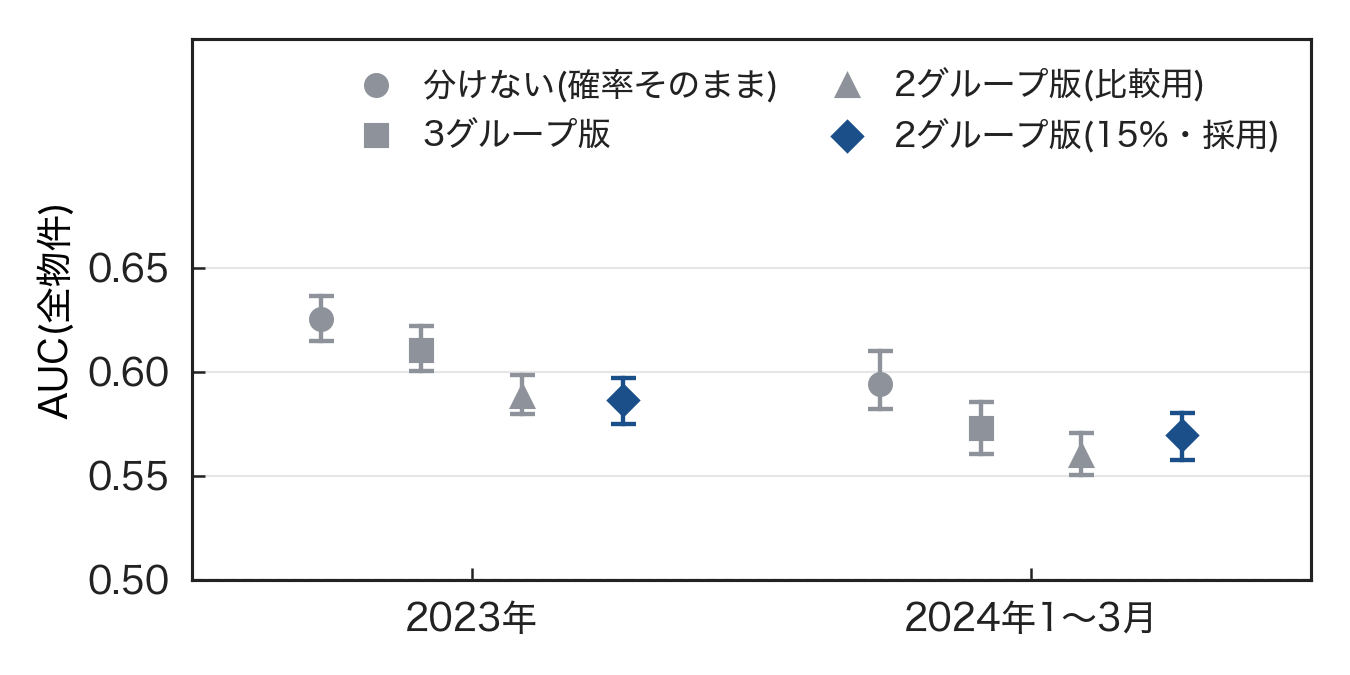
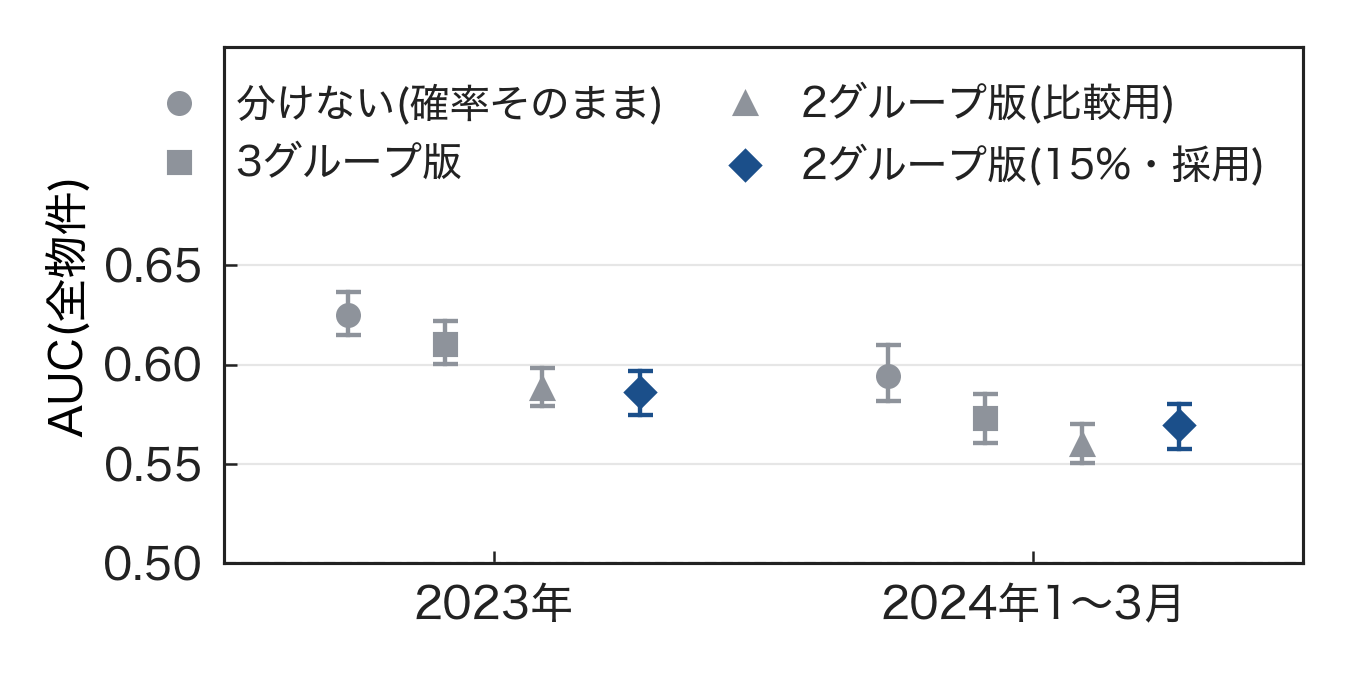
Talk figures: larger text for 31b/31c1/31c2/31f/31g (BIG_PX), shorten 31b(b) title

Changed region(s): [[0.0311, 0.0311, 0.9956, 0.9333], [0.5289, 0.2178, 0.56, 0.28]]

diff --git a/Yamamoto/room_level/analysis/31_slide_figures.py b/Yamamoto/room_level/analysis/31_slide_figures.py
@@ -79,12 +79,13 @@ def note(fig_name: str, item: str, value: float) -> None:
 # スライドに貼る幅(px、1920幅のスライド)。図の幅(150dpiでのpx)から引く。どの図も、スライド上で同じ大きさの文字(約30px)になるようにする
 DISPLAY_W = {1664: 1664, 1100: 1590, 1130: 1491, 900: 1118, 1000: 1292, 860: 1094, 700: 765}
 TARGET_PX = 30
+BIG_PX = 36  # 文字を大きくしたい図(31b・31c1・31c2・31g・31f)だけ使う
 
 
-def new(w: int, h: int, ncols: int = 1, ratios=None):
+def new(w: int, h: int, ncols: int = 1, ratios=None, target: int | None = None):
     global FS
     if TALK:
-        pt = TARGET_PX / (DISPLAY_W.get(w, w) / w) * 72 / 150
+        pt = (target or TARGET_PX) / (DISPLAY_W.get(w, w) / w) * 72 / 150
         FS = pt / 12.5
         plt.rcParams.update({"font.size": pt, "axes.labelsize": pt, "axes.titlesize": pt, "xtick.labelsize": pt, "ytick.labelsize": pt, "legend.fontsize": pt * 0.96})
     return plt.subplots(1, ncols, figsize=(w / DPI, h / DPI), gridspec_kw={"width_ratios": ratios} if ratios else None)
@@ -326,7 +327,7 @@ def fig_horizon(c23: pd.DataFrame) -> None:
         note("31b", f"{h}日 上位30%は残りの何倍", R[-1][0])
         note("31b", f"{h}日 上位30%は残りの何倍 95%区間 下", R[-1][1])
         note("31b", f"{h}日 上位30%は残りの何倍 95%区間 上", R[-1][2])
-    fig, ax = new(1100, 420, 2)
+    fig, ax = new(1100, 420, 2, target=BIG_PX)
     for a, vals, ylab, ylim, ref in [(ax[0], A, "AUC(似た物件どうし)", (0.49, 0.60), 0.5), (ax[1], R, "上位30% ÷ 残り(倍)", (1.0, 2.3), None)]:
         for i, (v, lo, hi) in enumerate(vals):
             dot_ci(a, i, v, lo, hi, color=(HI if i == 0 else BASE) if TALK else DARK)
@@ -336,9 +337,9 @@ def fig_horizon(c23: pd.DataFrame) -> None:
         a.set_ylim(*ylim)
         a.set_xticks(range(3))
         a.set_xticklabels(["7日", "14日", "30日"])
-        a.set_ylabel(("AUC" if ylab.startswith("AUC") else "倍率(倍)") if TALK else ylab)
+        a.set_ylabel(("AUC" if ylab.startswith("AUC") else "倍") if TALK else ylab)
     panel(ax[0], "(a) 似た物件どうしのAUC" if TALK else "(a)")
-    panel(ax[1], "(b) 上位30%の掲載終了率は残りの何倍か" if TALK else "(b)")
+    panel(ax[1], "(b) 上位30%÷残り" if TALK else "(b)")
     if TALK:
         ax[0].text(2.45, 0.503, "でたらめ(0.5)", ha="right", va="bottom", fontsize=11 * FS, color="#555555")
     fig.tight_layout()
@@ -384,7 +385,7 @@ def fig_levels(c22: pd.DataFrame, c23: pd.DataFrame, c24: pd.DataFrame) -> None:
                 note("31c", f"{yname} {nm} {g}の割合(%)", 100 * (lv == i).mean())
     COL = {"低": PALE, "中": BASE, "高": HI} if TALK else {"低": LIGHT, "中": MIDC, "高": DARK}
     sets = [(c23, "2023年"), (c24, "2024年1〜3月")]
-    fig, ax = new(1130, 470, 2)
+    fig, ax = new(1130, 470, 2, target=BIG_PX)
     for a, (d, yname), pl in zip(ax, sets, ["(a) 2023年", "(b) 2024年1〜3月"]):
         p, y = d["base_7"].to_numpy(), d["target_7"].to_numpy()
         x0, ticks, labs = 0, [], []
@@ -399,19 +400,19 @@ def fig_levels(c22: pd.DataFrame, c23: pd.DataFrame, c24: pd.DataFrame) -> None:
                 a.text(xx, r + 0.5, f"{r:.1f}", ha="center", fontsize=10.5 * FS)
                 ticks.append(xx)
                 labs.append({u"低": u"終わり\nにくい", u"中": u"中間", u"高": u"終わり\nやすい"}[names[i]] if TALK else names[i])
-            a.text(xs.mean(), -0.38 if TALK else -0.19, nm, ha="center", transform=a.get_xaxis_transform())
+            a.text(xs.mean(), -0.5 if TALK else -0.19, nm, ha="center", transform=a.get_xaxis_transform())
             x0 = xs[-1] + 1.6
         a.set_xticks(ticks)
-        a.set_xticklabels(labs)
+        a.set_xticklabels(labs, fontsize=(plt.rcParams["xtick.labelsize"] * 0.74) if TALK else None)
         a.set_ylim(0, 30)
         a.set_title(pl, loc="left", fontsize=12 * FS)
     ax[0].set_ylabel("掲載終了率(%)" if TALK else "7日以内に終わった割合(%)")
     fig.tight_layout(w_pad=3.0)
-    fig.subplots_adjust(bottom=0.36 if TALK else 0.2)
+    fig.subplots_adjust(bottom=0.42 if TALK else 0.2)
     save(fig, "31c1_levels_rates.png")
 
     rows = [("分けない(確率そのまま)", "o", None), ("3グループ版", "s", cuts["3グループ版"]), ("2グループ版(比較用)", "^", cuts["2グループ版"]), ("2グループ版(15%・採用)", "D", [T])]
-    fig, b = new(900, 450)
+    fig, b = new(900, 450, target=BIG_PX)
     offs = [-0.27, -0.09, 0.09, 0.27]
     for i, (d, yname) in enumerate(sets):
         p, y = d["base_7"].to_numpy(), d["target_7"].to_numpy()
@@ -457,7 +458,7 @@ def pair_V(d: pd.DataFrame, t: float) -> float:
 
 def fig_boundary(c22: pd.DataFrame, c23: pd.DataFrame) -> None:
     grid = [0.06, 0.08, 0.10, 0.12, 0.14, 0.16, 0.18, 0.20, 0.25, 0.30]
-    fig, a = new(900, 460) if TALK else new(820, 340)
+    fig, a = new(900, 460, target=BIG_PX) if TALK else new(820, 340)
     for d, color, mk, nm in [(c22, MIDC, "s", "2022年"), (c23, DARK, "o", "2023年")]:
         lab = {"2022年": "2022年(決めた年)", "2023年": "2023年(確認)"}[nm] if TALK else nm
         v = [100 * pair_V(d, t) for t in grid]
@@ -613,7 +614,7 @@ def fig_baselines(c22: pd.DataFrame, c23: pd.DataFrame) -> None:
 
 # ---------- 31f 2024年1〜3月 ----------
 def fig_holdout(c23: pd.DataFrame, c24: pd.DataFrame) -> None:
-    fig, a = new(860, 460)
+    fig, a = new(860, 460, target=BIG_PX)
     for i, (d, nm) in enumerate([(c23, "2023年"), (c24, "2024年1〜3月")]):
         p, y = d["base_7"].to_numpy(), d["target_7"].to_numpy()
         hi = p >= T
